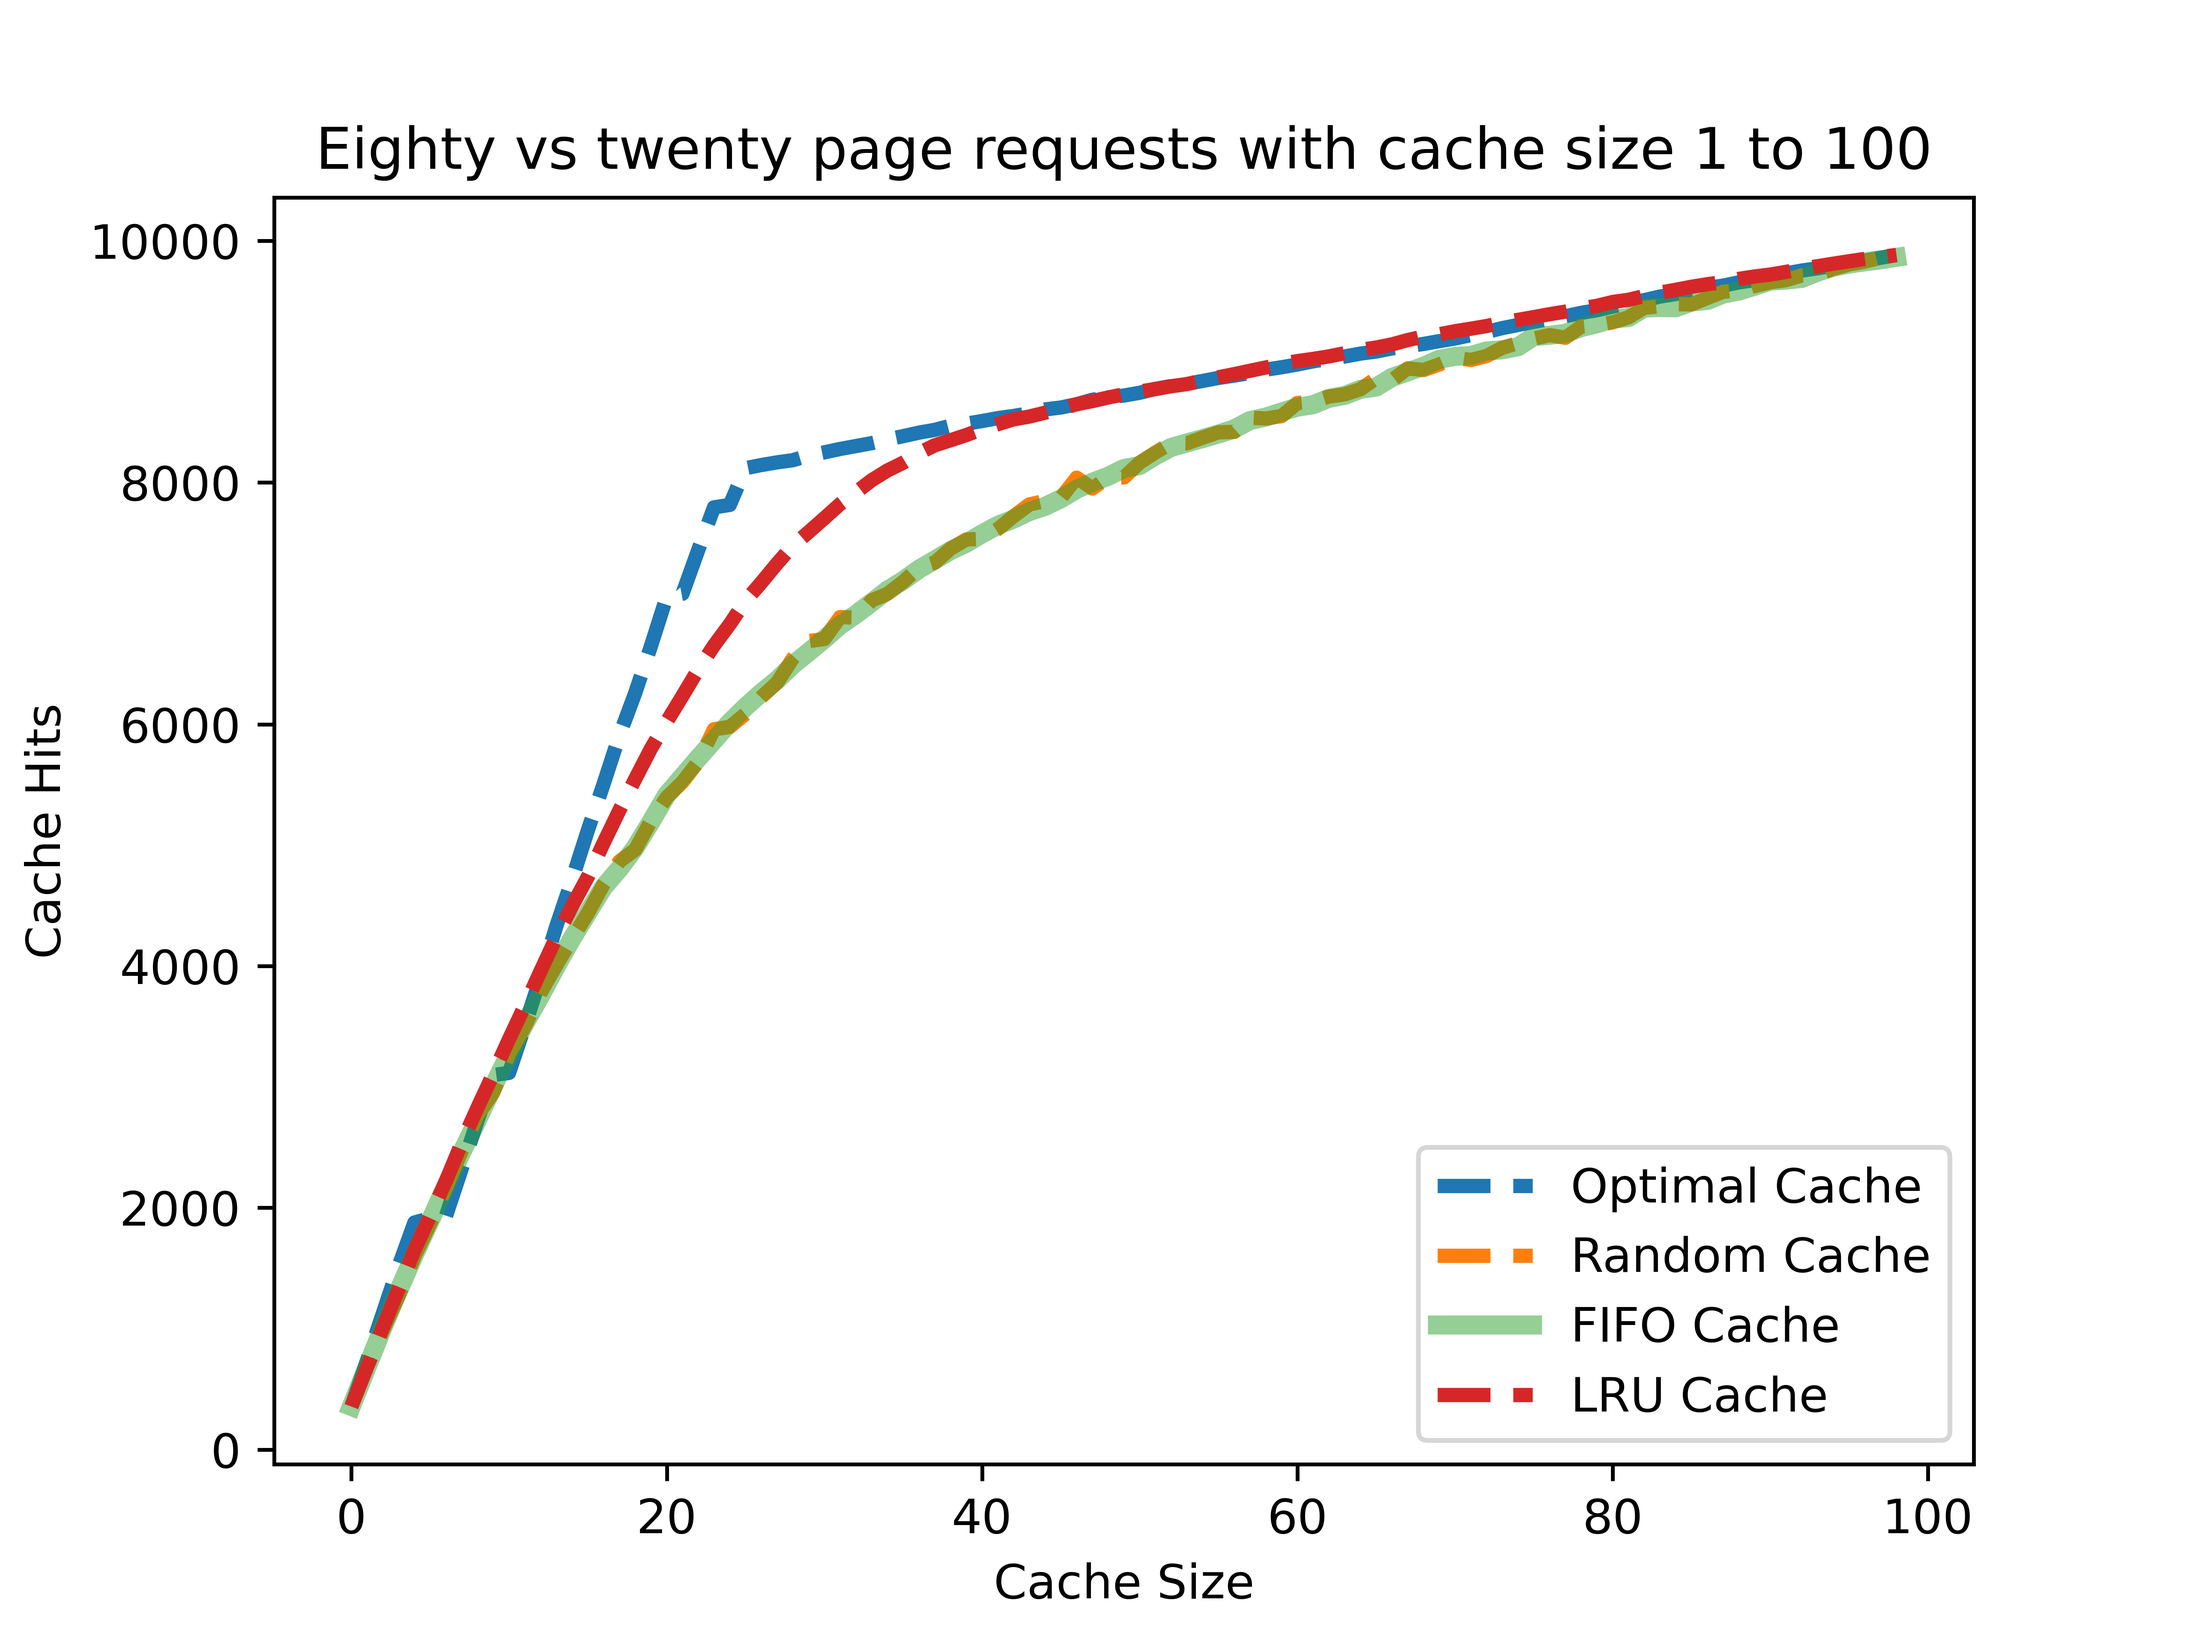
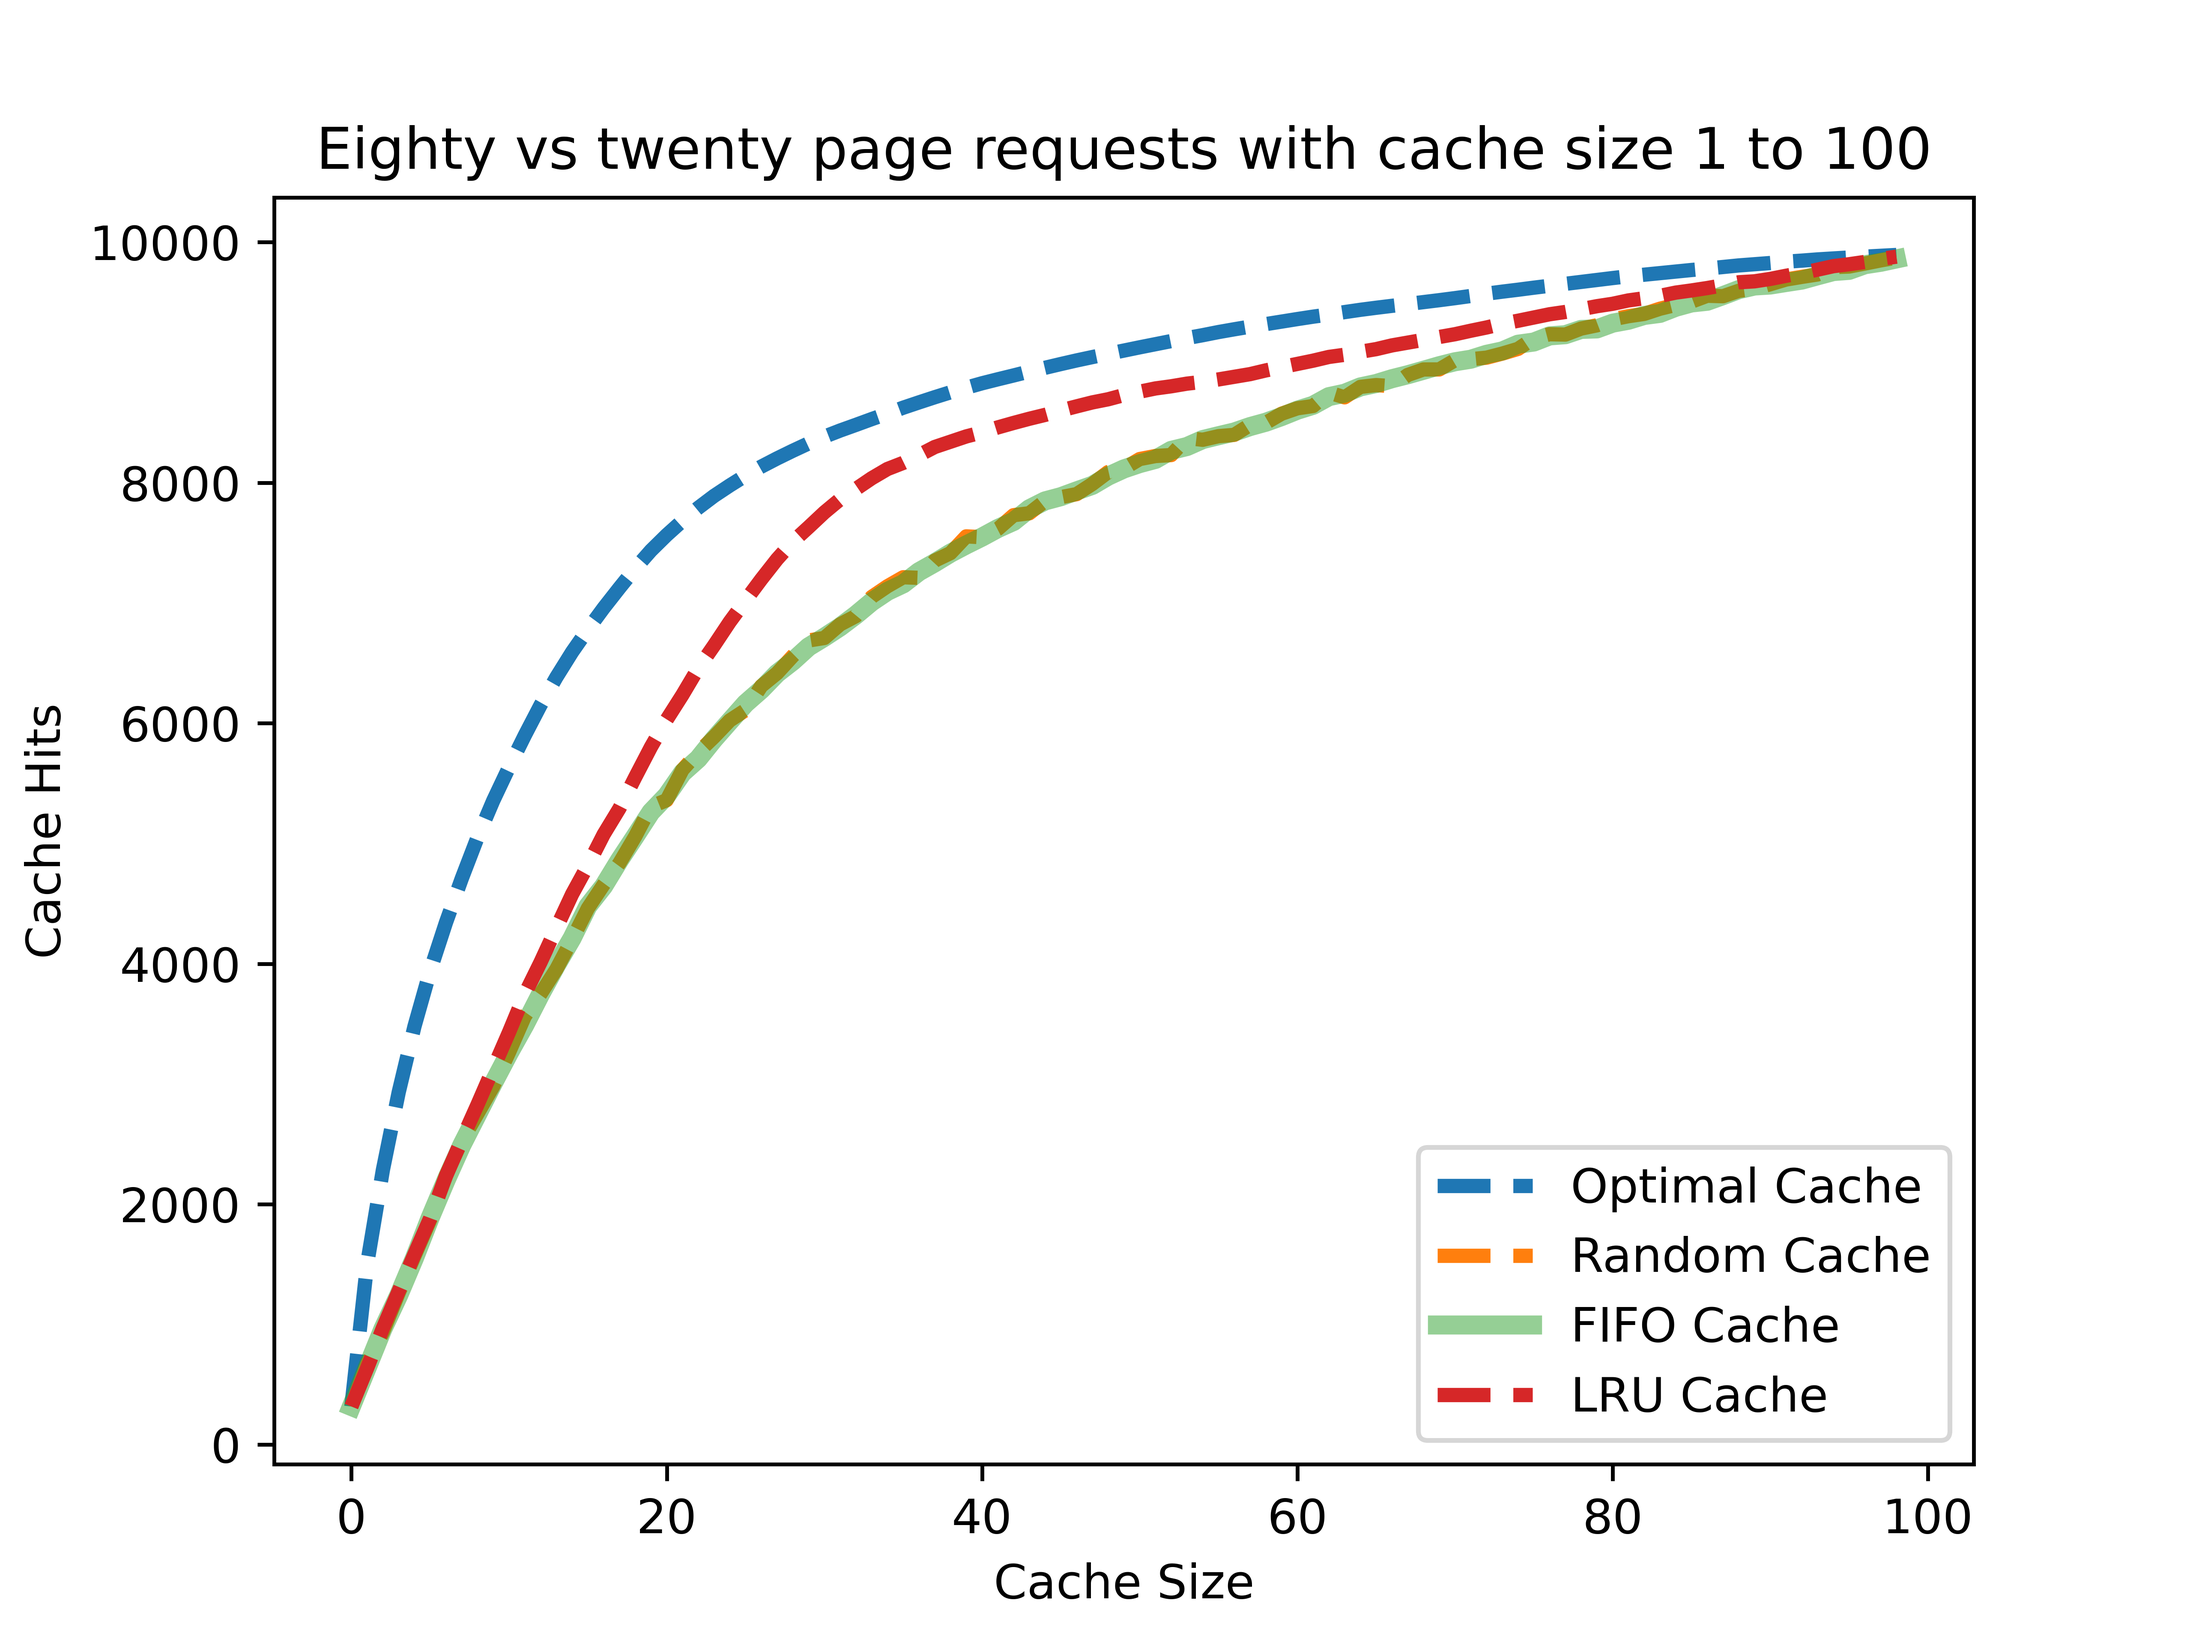
fix optimal_cache.py

diff --git a/cache/optimal_cache.py b/cache/optimal_cache.py
@@ -1,3 +1,5 @@
+import random
+
 import numpy as np
 from tqdm import trange
 
@@ -49,17 +51,26 @@ class OptimalCache(Cache):
         """
         # Find the page that will not be used for the longest time
         max_index = 0
-        max_distance = 0
+        max_distance = -1
         for i in range(len(self.page_nums)):
-            found_index = np.where(self.future_page_nums == self.page_nums[i])[0][0]
-            distance = found_index - self.counter
+            found_indices = np.where(self.future_page_nums[self.counter:] == self.page_nums[i])[0]
+            found_first_index = 0
+            if len(found_indices) == 0:
+                distance = -1
+            else:
+                distance = found_indices[0]
             if distance > max_distance:
                 max_distance = distance
                 max_index = i
-        # Replace the page
-        self.page_nums[max_index] = page.num
-        self.page_data[max_index] = page.data
-        return max_index
+        if max_distance == -1:
+            rand_index = random.randint(0, len(self.page_nums) - 1)
+            self.page_nums[rand_index] = page.num
+            self.page_data[rand_index] = page.data
+            return rand_index
+        else:
+            self.page_nums[max_index] = page.num
+            self.page_data[max_index] = page.data
+            return max_index
 
     def find_distance(self, page_num: int):
         """
@@ -95,7 +106,7 @@ class SingleTest(TestCase):
         optimal_cache_hit_count = []
         for cache_size in trange(1, 100):
             # Get the future page numbers
-            future_pages = np.random.randint(0, 99, 1000)
+            future_pages = np.random.randint(0, 99, 10000)
             # Create the cache
             optimal_cache = OptimalCache(cache_size, SwapMemory(100), future_pages)
             # Get the page data
@@ -111,3 +122,17 @@ class SingleTest(TestCase):
         import matplotlib.pyplot as plt
         plt.plot(optimal_cache_hit_count)
         plt.show()
+
+
+if __name__ == '__main__':
+    # Get the future page numbers
+    future_pages = np.random.randint(0, 99, 1000)
+    # Create the cache
+    optimal_cache = OptimalCache(10, SwapMemory(100), future_pages)
+    # Get the page data
+    for i in future_pages:
+        a = optimal_cache.get_page_data(i)
+        # Check data
+        assert a == "h" + chr(i)
+    # Print the cache
+    print(optimal_cache)

diff --git a/main.py b/main.py
@@ -2,9 +2,9 @@ from test_env import all_random, eighty_vs_twenty, fifty_serial
 
 
 if __name__ == '__main__':
-    print("all random test start")
-    all_random.test()
+    # print("all random test start")
+    # all_random.test()
     print("eighty vs twenty test start")
     eighty_vs_twenty.test()
-    print("fifty serial test start")
-    fifty_serial.test()
+    # print("fifty serial test start")
+    # fifty_serial.test()
